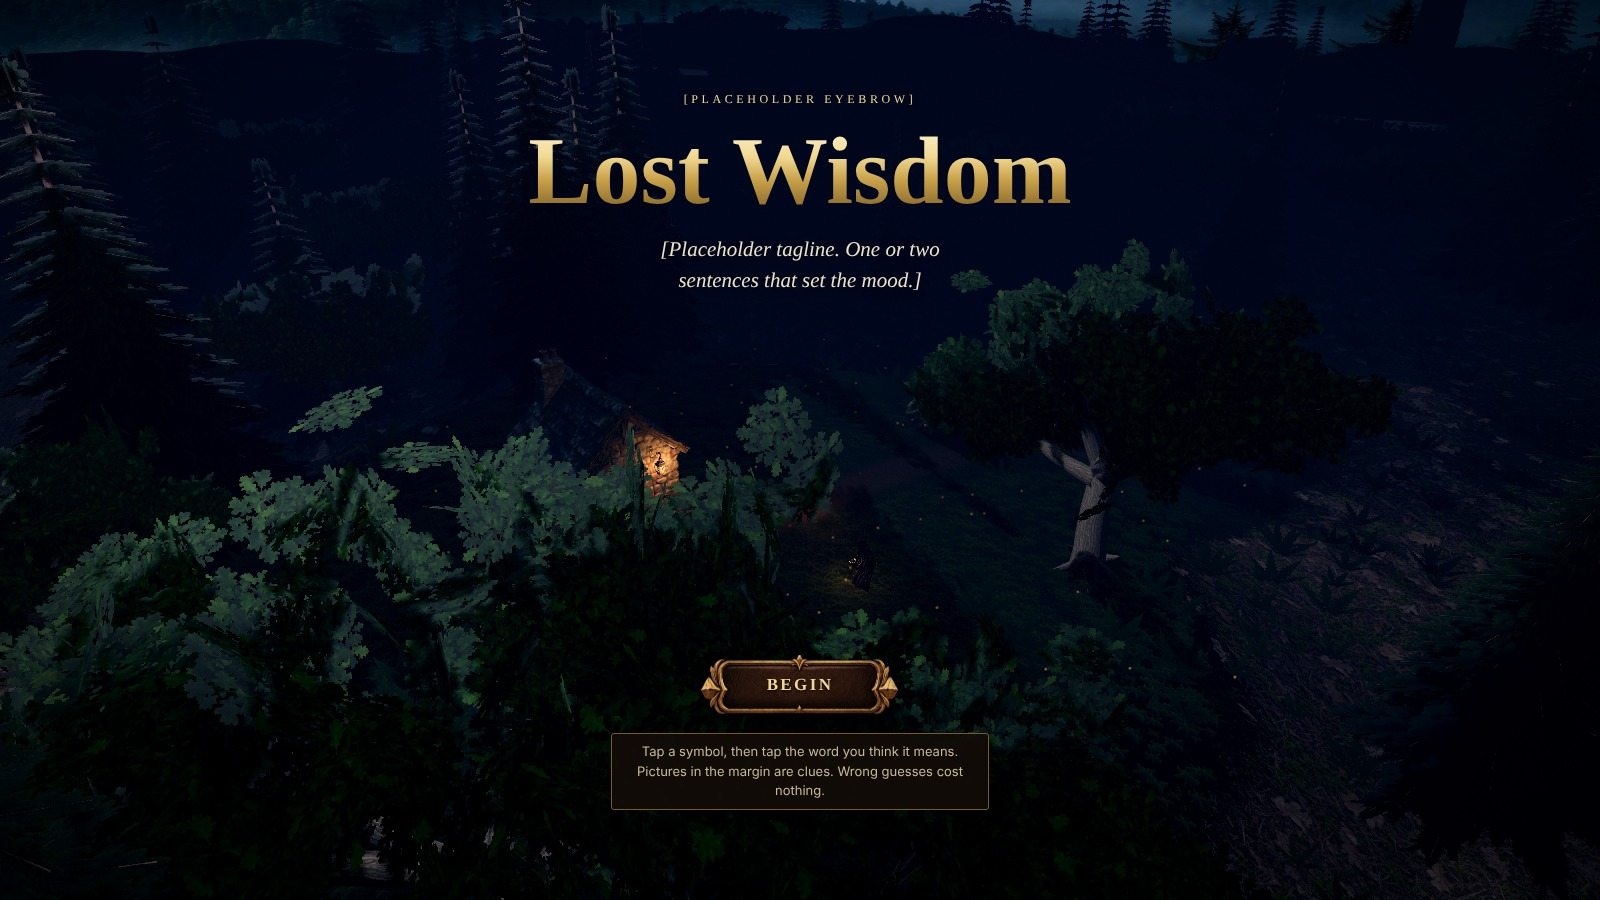
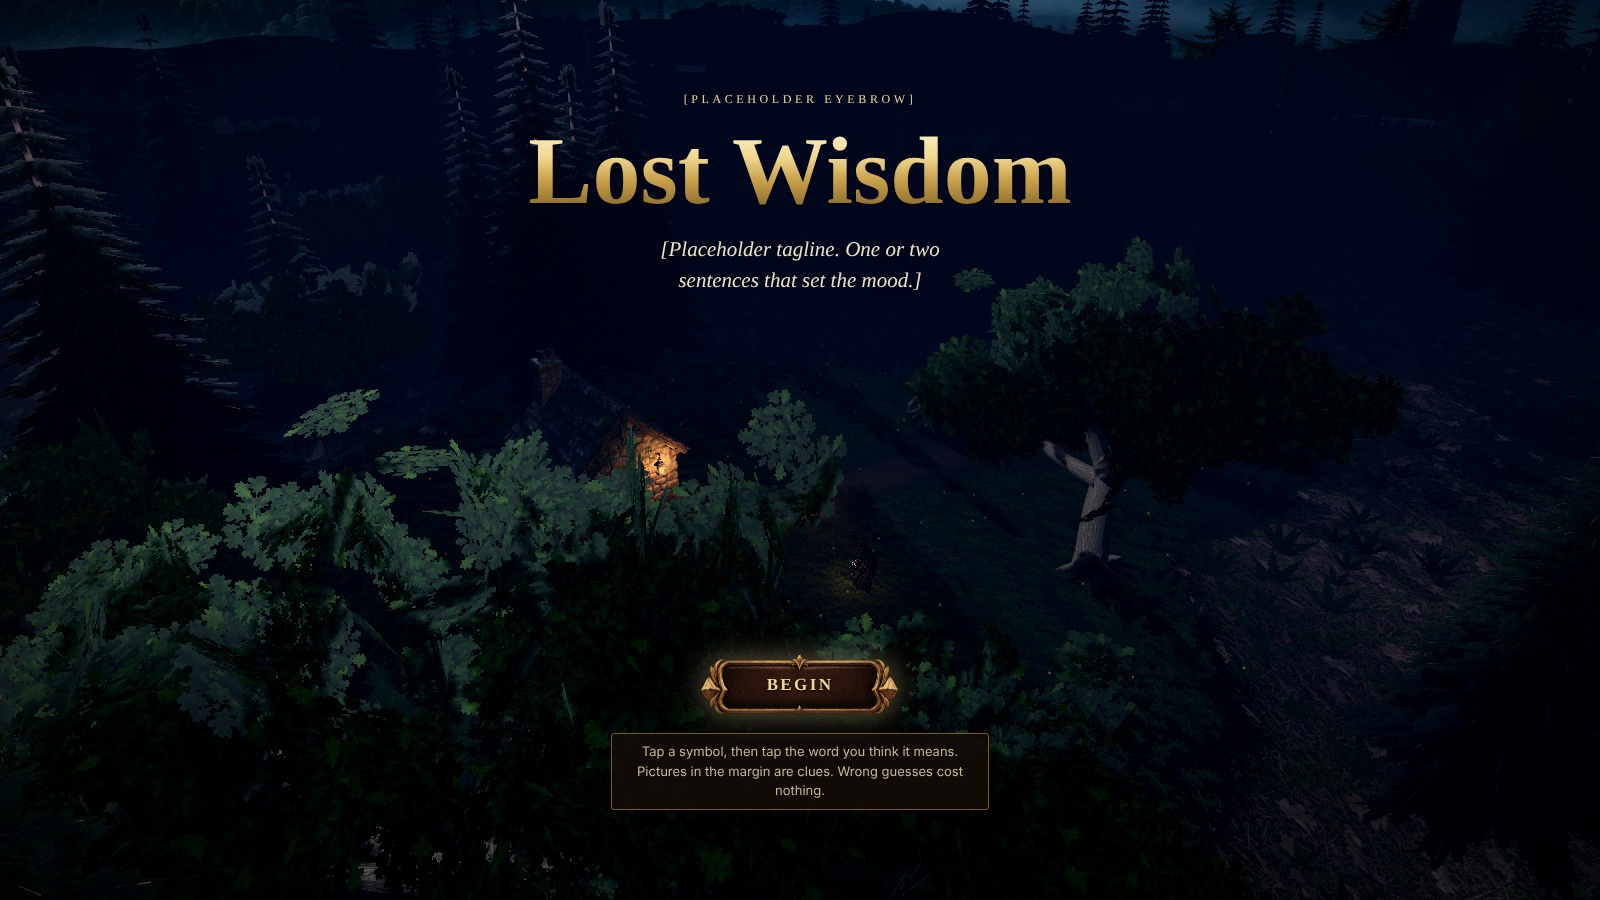
Demons: cold rim light and faint inner glow so they read in the dark; world screenshots
Claude-Session: https://claude.ai/code/session_01KBR17N2ACubxzZdPGn3xTV

diff --git a/game/src/world.js b/game/src/world.js
@@ -696,7 +696,10 @@ window.GAME = window.GAME || {};
         add(new T.ConeGeometry(.45, 1.3, 12), mat.dark, 0, .65, 0, g);
         [-.1, .1].forEach(x => add(new T.SphereGeometry(.035, 8, 6), new T.MeshBasicMaterial({ color: '#cfe0ff' }), x, 1.12, .32, g));
       }
-      const glow = new T.PointLight('#7f96c8', .8 * LI, 5, 1.8); glow.position.y = 1; g.add(glow);
+      // spectral light: a cold rim from behind and a faint inner glow, so a black wraith reads in the dark
+      g.traverse(o => { if (o.isMesh) [].concat(o.material).forEach(m => { if (m.emissive) { m.emissive.set('#1c2840'); m.emissiveIntensity = 1; } }); });
+      const rim = new T.PointLight('#a9c0ff', 3 * LI, 6, 1.6); rim.position.set(0, 1.4, -.9); g.add(rim);
+      const glow = new T.PointLight('#7f96c8', 1.2 * LI, 5, 1.8); glow.position.set(0, 1, .6); g.add(glow);
       g.scale.setScalar(.001); scene.add(g);
       return g;
     }
